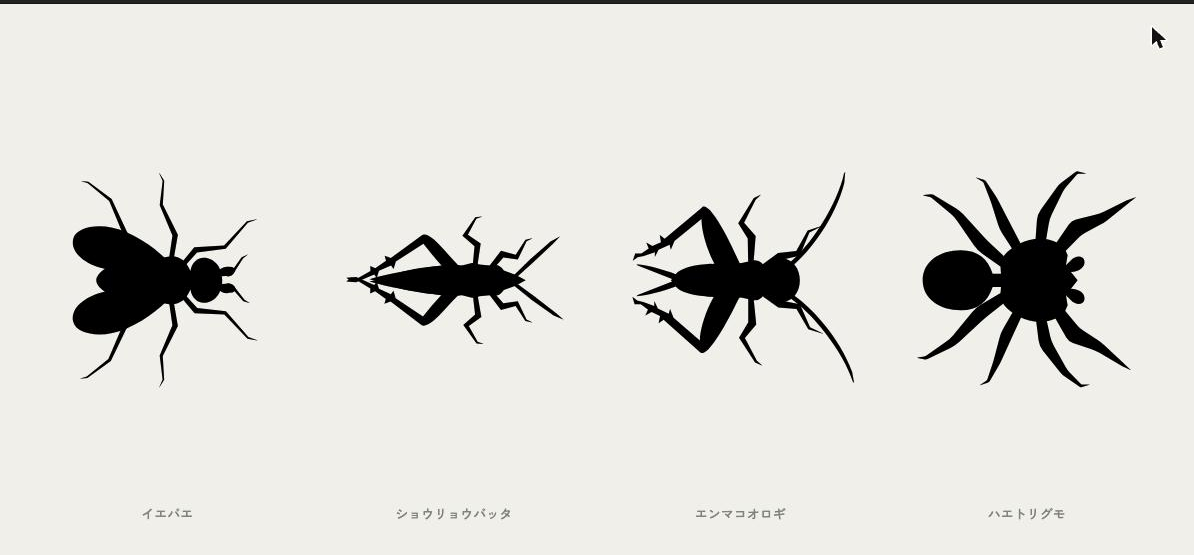
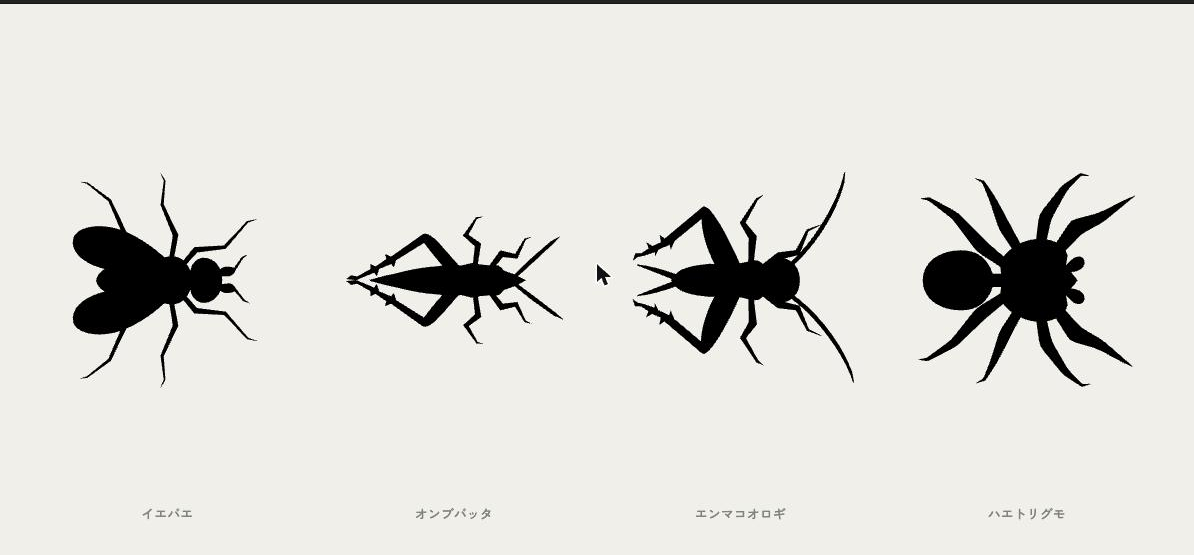
校正の定規を設定パネル内に移し、種名の誤りを訂正した
スマホでは設定ドロワーが全幅で開くため、刺激面の下端に描いた定規が
その裏に隠れ、つまみと定規を同時に見られなかった。つまり狭い画面では
校正が成立していなかった。定規をパネル内のつまみ直下に置き、どの幅でも
同時に見えるようにする。刺激面側の定規は「常に出す」の用途として残す。

実測: 10mm ごとのピッチが 64/64/65/64/64/64 px。設定値 6.42 px/mm から
計算した 64.2 px と一致。

バッタの種名がショウリョウバッタになっていたが、正しくはオンブバッタ。
SVG のファイル名と CSV の値は最初から onbu_grasshopper で正しく、
README とスクリーンショットのラベルだけが誤っていた。図版を撮り直した。

Claude-Session: https://claude.ai/code/session_01TyEMCuAyawFv7YxwZY73Yj

diff --git a/index.html b/index.html
@@ -123,6 +123,7 @@ input[type=range]:focus-visible::-webkit-slider-thumb{outline:2px solid var(--am
 .seg button:last-child{border-right:0}
 .seg button.on{background:var(--metal);color:#1b1f1e}
 select.wide{-webkit-appearance:none;appearance:none}
+#calRuler{display:block;width:100%;height:62px;background:#F2F1EC;border-radius:3px;margin-top:2px}
 .wide{display:block;width:100%;border:1px solid var(--line);background:#1b1f1e;color:var(--metal);
   font-family:var(--mech);font-weight:300;font-size:12px;letter-spacing:.1em;padding:11px;border-radius:4px;cursor:pointer;margin-top:8px}
 .wide:active{background:var(--metal);color:#1b1f1e}
@@ -273,9 +274,10 @@ select.wide{-webkit-appearance:none;appearance:none}
       <select class="wide" id="selDevice" style="text-align:center"></select>
       <label style="margin-top:14px"><span data-t="lPpm">画面の目盛を実物に合わせる</span><b><span id="vPpm">5.20</span><em>px/mm</em></b></label>
       <input type="range" id="sPpm" min="2.2" max="13" step="0.02" value="5.2">
-      <div class="hint" data-th="h7">この設定を開いているあいだ、<b style="color:var(--text)">画面の下端に定規が出ます</b>。
-        実物の定規を当てて、目盛が合うまで上のつまみを動かしてください。合えば校正完了です。
-        端末を選ぶだけでも実用になりますが、ケースや表示倍率で変わるので、記録を残すなら実測を推奨します。</div>
+      <canvas id="calRuler" height="62"></canvas>
+      <div class="hint" data-th="h7"><b style="color:var(--text)">上の目盛に実物の定規を当てて</b>、数字が合うまでつまみを動かしてください。合えば校正完了です。
+        端末を選ぶだけでも実用になりますが、ケースや表示倍率で変わるので、記録を残すなら実測を推奨します。
+        「常に出す」にすると、獲物の大きさを確かめられるよう刺激面にも定規が出ます。</div>
       <div class="seg" id="segRuler" style="margin-top:10px">
         <button data-r="0" class="on" data-t="rulerDrawer">設定中だけ出す</button>
         <button data-r="1" data-t="rulerAlways">常に出す</button>
@@ -558,6 +560,28 @@ function frame(now){
   requestAnimationFrame(frame);
 }
 
+function drawCalRuler(){
+  const c = $('calRuler'); if (!c) return;
+  const w = c.clientWidth; if (!w) return;
+  const dpr = Math.min(devicePixelRatio || 1, 3);
+  if (c.width !== Math.round(w * dpr)) { c.width = Math.round(w * dpr); c.height = Math.round(62 * dpr); }
+  const g = c.getContext('2d');
+  g.setTransform(dpr, 0, 0, dpr, 0, 0);
+  g.fillStyle = '#F2F1EC'; g.fillRect(0, 0, w, 62);
+  const mm = ppm(), x0 = 10, span = Math.floor((w - x0 * 2) / mm);
+  if (span < 5) return;
+  g.strokeStyle = '#1b1f1e'; g.fillStyle = '#1b1f1e'; g.lineWidth = 1;
+  const y = 40;
+  g.beginPath(); g.moveTo(x0, y + .5); g.lineTo(x0 + span * mm, y + .5); g.stroke();
+  g.font = '10px ui-monospace,monospace'; g.textAlign = 'center';
+  for (let i = 0; i <= span; i++){
+    const x = x0 + i * mm, h = i % 10 === 0 ? 22 : (i % 5 === 0 ? 13 : 7);
+    g.beginPath(); g.moveTo(x + .5, y); g.lineTo(x + .5, y - h); g.stroke();
+    if (i % 10 === 0) g.fillText(i, x, y + 13);
+  }
+  g.textAlign = 'left'; g.font = '10px ui-monospace,monospace'; g.fillStyle = '#6f7570';
+  g.fillText('mm', x0, 14);
+}
 function drawRuler(g){
   const phone = W < 900;
   const mm = ppm(), y = H - (phone ? 132 : 78), x0 = phone ? 18 : 44;
@@ -619,7 +643,7 @@ const EN = {
   h4:'The three buttons above only choose <b style="color:var(--text)">who decides where it travels</b>. Each species’ own motion — the fly’s tremor, the grasshopper’s hop, the spider’s freeze — runs in every mode.<br><br><b style="color:var(--text)">Manual</b> — the prey does not travel by itself. It stays where you put it and misbehaves on the spot.<br><b style="color:var(--text)">Wander</b> — the prey picks its own way. You can still shove it with the stick.<br><b style="color:var(--text)">Spiral</b> — a fixed circuit around the centre. The standard eliciting stimulus, and a useful autopilot when your hands are busy.',
   h5:'Smooth is the classic looming stimulus, an expanding luminance edge. It is the one with a primary source behind it: about 60% strikes, against 15–35% when size is held constant and only disparity moves. Stepped follows a report of maximal response at 0.8 s or more per step, but <b style="color:var(--text)">that report could not be traced to a readable source</b>. Which one works is best settled on your own animal.',
   h6:'No behavioural evidence was found that colour matters independently of luminance. The main variable is the light–dark difference: the detection threshold is very low (Michelson ≈ 0.016), while a dark target on a bright field consistently beats the reverse. Treat this as a way to build contrast rather than to pick a colour.',
-  h7:'While these settings are open, <b style="color:var(--text)">a ruler appears along the bottom of the field</b>. Lay a real ruler against it and move the slider above until the graduations line up. Picking your device is usually good enough, but a case or display scaling can shift it, so measure if you intend to keep records.',
+  h7:'<b style="color:var(--text)">Lay a real ruler against the scale above</b> and move the slider until the numbers line up. Picking your device is usually good enough, but a case or display scaling can shift it, so measure if you intend to keep records. Set it to always show and a ruler also appears on the field, for checking the prey against it.',
   h8:'You can also clear it by pressing the strike counter twice. Export the CSV first.'
 };
 let JAcap = false;
@@ -666,6 +690,7 @@ function refresh(){
   $('btnClear').textContent = arming ? T('clearArm') : T('bClear');
   $('logState').textContent = T('logState', P.log.length);
   $('vPpm').textContent = (P.pxPerMm || GUESS()).toFixed(2);
+  drawCalRuler();
   $('calState').textContent = P.pxPerMm
     ? T('calDone', P.pxPerMm.toFixed(2)) : T('calNone', GUESS().toFixed(2));
   save();
@@ -733,7 +758,7 @@ canvas.addEventListener('pointermove', e => { if (drag) drag = pos(e); });
 ['pointerup','pointercancel'].forEach(k => canvas.addEventListener(k, () => drag = null));
 
 /* ══ drawer ═════════════════════════════════════════════ */
-$('btnDrawer').onclick = () => { const d = $('drawer'); d.classList.toggle('open'); $('btnDrawer').classList.toggle('on', d.classList.contains('open')); };
+$('btnDrawer').onclick = () => { const d = $('drawer'); d.classList.toggle('open'); drawCalRuler(); $('btnDrawer').classList.toggle('on', d.classList.contains('open')); };
 $('btnClose').onclick  = () => { $('drawer').classList.remove('open'); $('btnDrawer').classList.remove('on'); };
 const bind = (id, key, fn) => $(id).addEventListener('input', e => { P[key] = +e.target.value; (fn||refresh)(); });
 bind('sSize','sizeMm'); bind('sSpeed','speedMms');

diff --git a/README.en.md b/README.en.md
@@ -31,7 +31,7 @@ Every instrument, button and number lives outside it, in the metal frame — and
 | Species | How it moves |
 |---|---|
 | Housefly (イエバエ) | Never quite still. Wings beat even while it hovers |
-| Grasshopper (ショウリョウバッタ) | Big hops, long waits |
+| Grasshopper (オンブバッタ, *Atractomorpha*) | Big hops, long waits |
 | Cricket (エンマコオロギ) | Short quick hops, straight on to the next |
 | Jumping spider (ハエトリグモ) | Scuttles, then freezes dead still |
 

diff --git a/README.md b/README.md
@@ -31,7 +31,7 @@
 | 種 | 動きの癖 |
 |---|---|
 | イエバエ | 止まらない。ホバー中も翅が羽ばたく |
-| ショウリョウバッタ | 大きく跳んで、長く待つ |
+| オンブバッタ | 大きく跳んで、長く待つ |
 | エンマコオロギ | 小刻みに跳ねて、すぐ次へ |
 | ハエトリグモ | 走っては固まる。止まると完全に動かない |
 
